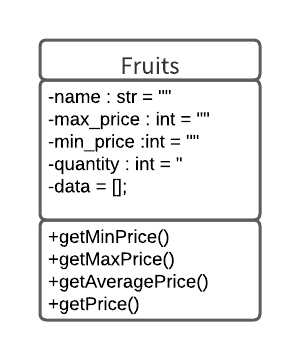
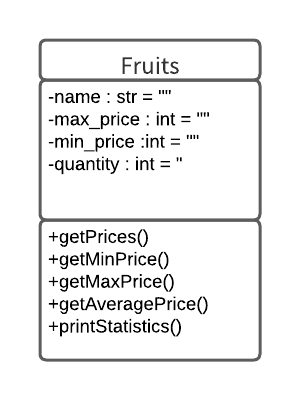
リファクタリング（ファイル分割＋改行統一＋関数名変更）

Changed region(s): [[0.12, 0.0917, 0.87, 0.9167]]

diff --git a/fruits_class.php b/fruits_class.php
@@ -1,0 +1,52 @@
+<?php
+    class Fruits{/*クラスを定義する。*/
+
+        private $name = "";
+        private $max_price = "";
+        private $min_price = "";
+        private $quantity = "";
+
+        public function __construct($name,$max_price,$min_price,$quantity){/*初期化 */
+            $this->name = $name;
+            $this->max_price = $max_price;
+            $this->min_price = $min_price;
+            $this->quantity = $quantity;
+        }
+        
+        public function getPrices(){/*指定範囲内でのランダム生成された価格の配列を作成 */
+            for ($i = 0; $i < $this->quantity; $i++){
+                $prices[] =  rand($this->min_price,$this->max_price);
+            };
+            return $prices;
+        }
+
+        public function getMinPrice(){/*要素から最小値を求める関数 */ 
+            return(min($this->getPrices()));
+        }
+
+        public function getMaxPrice(){/*要素から最大値を求める関数 */
+            return(max($this->getPrices()));
+        }
+
+        public function getAveragePrice(){/*要素から平均値を求める関数（小数点以下、四捨五入）。 */
+            return(round(array_sum($this->getPrices())/$this->quantity));
+        }
+
+        public function printStatistics(){/*統計表示を実施 */
+            echo "{$this->name}の価格";
+            echo "<br />";
+            echo "最高値は、";
+            print_r($this->getMaxPrice());
+            echo "円です。";
+            echo "<br />"; 
+            echo "最安値は、";
+            print_r($this->getMinPrice()); 
+            echo "円です。";
+            echo "<br />"; 
+            echo "平均価格は、";
+            print_r($this->getAveragePrice());
+            echo "円です。（小数点以下、四捨五入）";
+            echo "<br />"; 
+        }
+    }
+?>

diff --git a/exection.php b/exection.php
@@ -1,0 +1,11 @@
+<?php
+  // fruits_class.phpを読み込む
+    require 'fruits_class.php';
+
+  // fruits_class.phpのクラスを使う
+    $peach = new Fruits("桃",300,200,15);
+    $peach->printStatistics();
+
+    $strawberry = new Fruits("イチゴ",400,500,15);
+    $strawberry->printStatistics();
+?>
